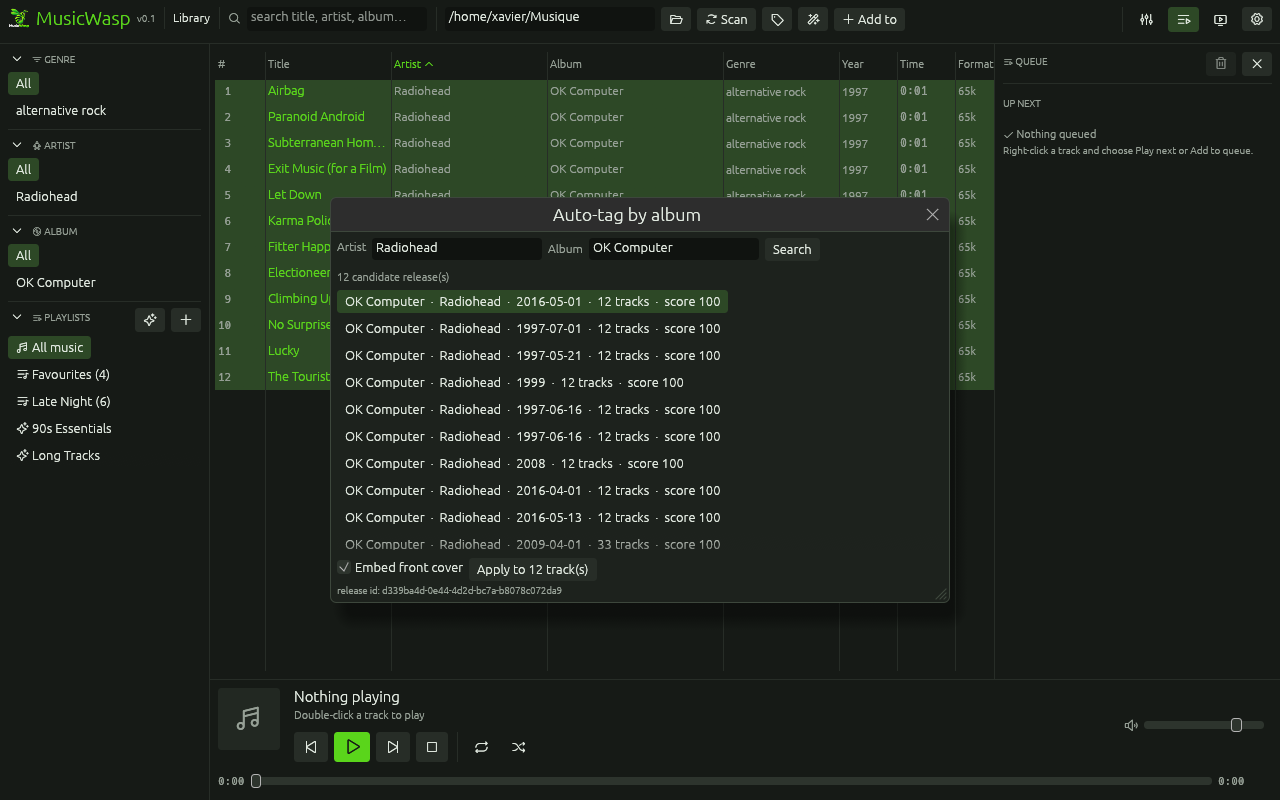
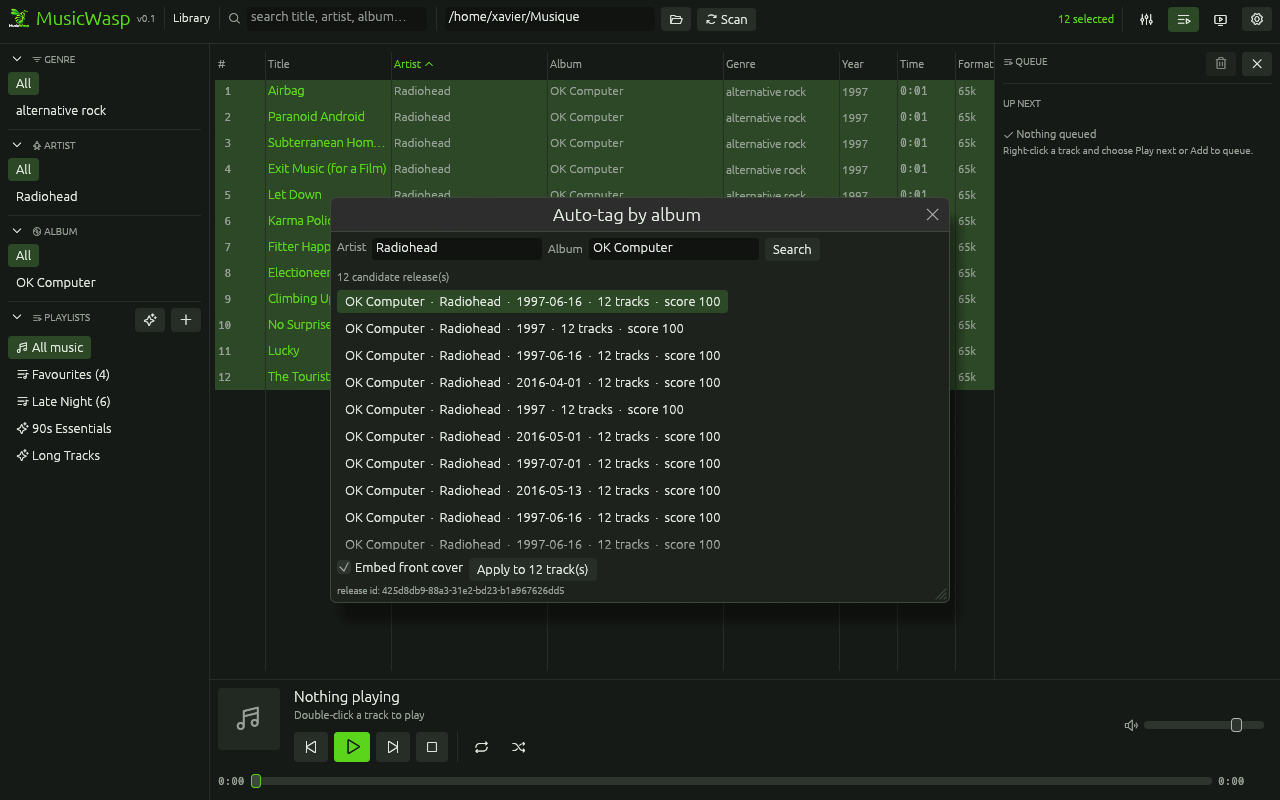
Fix play queue panel

diff --git a/gui/src/ui.rs b/gui/src/ui.rs
@@ -148,38 +148,6 @@ pub fn toolbar(app: &mut App, ui: &mut egui::Ui) {
             }
 
             let selected = app.selected_in_view().len();
-            let can_edit = selected > 0;
-            let edit_hint = match selected {
-                0 => "Select one or more tracks first".to_string(),
-                1 => "Edit metadata for the selected track (Ctrl+F2)".to_string(),
-                n => format!("Batch edit {n} selected tracks (Ctrl+F2)"),
-            };
-            if icons::compact_enabled(ui, can_edit, icons::TAG, &edit_hint).clicked() {
-                app.open_editor();
-            }
-
-            if icons::compact_enabled(
-                ui,
-                can_edit,
-                icons::MAGIC_WAND,
-                "Look the album up on MusicBrainz and tag it",
-            )
-            .clicked()
-            {
-                app.open_autotag();
-            }
-
-            let playlists = app.playlists.clone();
-            ui.add_enabled_ui(can_edit && !playlists.is_empty(), |ui| {
-                ui.menu_button(icons::with(icons::PLUS, "Add to"), |ui| {
-                    for playlist in &playlists {
-                        if ui.button(&playlist.name).clicked() {
-                            app.add_to_playlist(playlist.id, &[]);
-                            ui.close();
-                        }
-                    }
-                });
-            });
 
             ui.with_layout(egui::Layout::right_to_left(egui::Align::Center), |ui| {
                 if icons::compact(
@@ -1120,8 +1088,7 @@ pub fn queue_panel(app: &mut App, ui: &mut egui::Ui) {
                             let mut move_to = None;
 
                             ui.horizontal(|ui| {
-                                let remove_width = 26.0;
-                                let width = (ui.available_width() - remove_width).max(40.0);
+                                let width = ui.available_width().max(40.0);
                                 let (rect, resp) = ui.allocate_exact_size(
                                     egui::vec2(width, 23.0),
                                     egui::Sense::click_and_drag(),
@@ -1138,9 +1105,8 @@ pub fn queue_panel(app: &mut App, ui: &mut egui::Ui) {
                                 let artist_width = (inner.width() * 0.34).clamp(52.0, 96.0);
                                 let gap_width = 10.0;
                                 let title_left = inner.left() + index_width + 4.0;
-                                let title_width =
-                                    (inner.right() - artist_width - gap_width - title_left)
-                                        .max(24.0);
+                                let artist_left = inner.right() - artist_width;
+                                let title_width = (artist_left - gap_width - title_left).max(24.0);
 
                                 let index_rect = egui::Rect::from_min_size(
                                     inner.min,
@@ -1192,7 +1158,7 @@ pub fn queue_panel(app: &mut App, ui: &mut egui::Ui) {
                                 );
 
                                 let artist_rect = egui::Rect::from_min_size(
-                                    egui::pos2(title_rect.right() + gap_width, inner.top()),
+                                    egui::pos2(artist_left, inner.top()),
                                     egui::vec2(artist_width, inner.height()),
                                 );
                                 let artist_text =
@@ -1200,7 +1166,7 @@ pub fn queue_panel(app: &mut App, ui: &mut egui::Ui) {
                                 ui.scope_builder(
                                     egui::UiBuilder::new().max_rect(artist_rect).layout(
                                         egui::Layout {
-                                            main_align: egui::Align::Min,
+                                            main_align: egui::Align::Max,
                                             ..egui::Layout::left_to_right(egui::Align::Center)
                                         },
                                     ),
@@ -1222,6 +1188,19 @@ pub fn queue_panel(app: &mut App, ui: &mut egui::Ui) {
                                     track.title,
                                     fmt_time(track.duration_secs as f64)
                                 ));
+                                resp.context_menu(|ui| {
+                                    if ui.button(icons::with(icons::PLAY, "Play now")).clicked() {
+                                        jump = true;
+                                        ui.close();
+                                    }
+                                    if ui
+                                        .button(icons::with(icons::X, "Remove from queue"))
+                                        .clicked()
+                                    {
+                                        remove = true;
+                                        ui.close();
+                                    }
+                                });
                                 if resp.clicked() {
                                     jump = true;
                                 }
@@ -1251,10 +1230,6 @@ pub fn queue_panel(app: &mut App, ui: &mut egui::Ui) {
                                         0.0,
                                         th::accent(),
                                     );
-                                }
-
-                                if icons::compact(ui, icons::X, "Remove from the queue").clicked() {
-                                    remove = true;
                                 }
                             });
 

diff --git a/README.md b/README.md
@@ -18,7 +18,7 @@ This is an early but working clone, not a finished product. What runs today:
 | Browsing | MusicBee-inspired column browser (genre → artist → album) with foldable sections whose state is remembered, search, sortable table |
 | Selection | multi-select (`Ctrl`-click, `Shift`-click, `Ctrl+A`, `Esc`), drag tracks onto a playlist, right-click a row for play / rename / metadata / playlist actions |
 | Playback | play / pause / stop / next / prev / seek / volume, repeat (off / all / one), shuffle |
-| Play queue | right-hand Up Next panel: current track, click any entry to jump, drag to reorder, remove entries or clear everything after the current track; **Play next** / **Add to queue** from the track menu |
+| Play queue | right-hand Up Next panel: current track, click any entry to jump, drag to reorder, right-click to remove, or clear everything after the current track; **Play next** / **Add to queue** from the track menu |
 | Now playing | album art from embedded cover, accent-highlighted current row, live position |
 | Tag editing | edit title, artist, album, album artist, genre, year, track no, disc no and write them into the file; batch edit writes only the fields you fill in |
 | Plain view | one-click full-window now-playing view: large cover, transport, seek, volume and the next track |
@@ -97,10 +97,10 @@ entry uses the app icon.
    the folded state is saved like the rest of the settings. Type in **Search** to filter.
 3. Double-click a track, or select it and press `Enter`, to play. `Space` toggles pause. The
    **QUEUE** panel on the right shows the current track and **Up Next**: click an entry to jump to
-   it, drag rows to reorder, use the row `x` to remove one, or **Clear** everything after the
+   it, drag rows to reorder, right-click a row to remove it, or **Clear** everything after the
    current track. Toggle the panel from the queue icon in the toolbar.
 4. Select tracks with `Ctrl`-click / `Shift`-click / `Ctrl+A`. Drag a selection onto a playlist in
-   the sidebar to add it there, or use **Add to**.
+   the sidebar to add it there, or right-click a track and use **Add to playlist**.
 5. Right-click any track for **Play now**, **Play next**, **Add to queue**, **Rename**, **Edit tags**,
    **Find metadata**, **Remove from playlist** and **Add to playlist**. You can also drop audio files from your file manager onto a playlist,
    **All music**, or anywhere in an open playlist's track list to import and add them.
